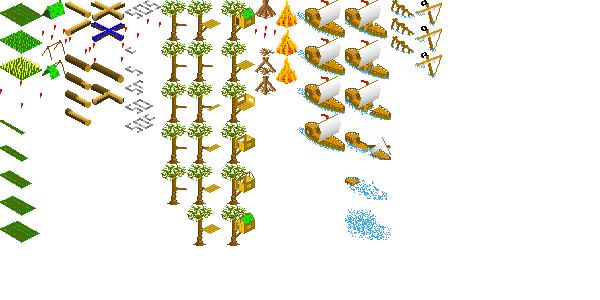
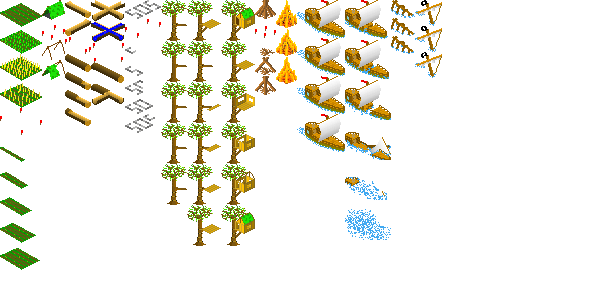
Fix unlimited food exploit

diff --git a/src/action/actions/consuming.js b/src/action/actions/consuming.js
@@ -19,23 +19,28 @@ const goToPlace = (tile) => {
   }
 };
 
+const removeFoodFromObject = (object) => {
+  if (object.sprite === spriteTypes.BUSH && object.frame === 2) {
+    object.frame++;
+  } else if (object.sprite === spriteTypes.FIELD && object.frame === 2) {
+    object.frame++;
+  } else {
+    object.frame = 0;
+  }
+};
+
 const consume = (tile) => {
   if (isEatable(tile.object)) {
     startGuyAnimation(spriteTypes.GUY_EATING);
     sounds.CRACKLING.instance.play();
+    removeFoodFromObject(tile.object);
     changeWaterAndFood(0, 15);
     spendMinutes(2);
-  } else {
+  } else if (isDrinkable(tile.object)) {
     startGuyAnimation(spriteTypes.GUY_DRINKING);
     sounds.DRINKING.instance.play();
     changeWaterAndFood(30, 0);
     spendMinutes(3);
-  }
-};
-
-const resetEatableObject = (tile) => {
-  if (isEatable(tile.object)) {
-    tile.object.frame = 0;
   }
 };
 
@@ -50,7 +55,6 @@ const consuming = {
     goToPlace,
     consume,
     consume,
-    resetEatableObject,
     goToCenterOfTile
   ]
 };

diff --git a/src/action/spendMinutes.js b/src/action/spendMinutes.js
@@ -1,5 +1,4 @@
 import spriteTypes from '../images/spriteTypes.js';
-import sprites from '../images/sprites.js';
 import isOnSea from '../guy/isOnSea.js';
 import changeHealth from '../guy/changeHealth.js';
 import state from '../state/state.js';
@@ -19,10 +18,14 @@ const removeObjectsWithLifetime = (minutes, tile) => {
 const growFood = (minutes, tile) => {
   if (tile.object?.sprite === spriteTypes.FIELD && !tile.construction) {
     tile.object.frame += minutes * 0.005;
-    tile.object.frame = Math.min(tile.object.frame, 2);
+    if (tile.object.frame > 2) {
+      tile.object.frame = Math.floor(tile.object.frame);
+    }
   } else if (tile.object?.sprite === spriteTypes.BUSH) {
     tile.object.frame += minutes * 0.0005;
-    tile.object.frame = Math.min(tile.object.frame, sprites[tile.object.sprite].frameCount - 1);
+    if (tile.object.frame > 2) {
+      tile.object.frame = Math.floor(tile.object.frame);
+    }
   }
 };
 

diff --git a/src/terrain/objects/isEatable.js b/src/terrain/objects/isEatable.js
@@ -1,11 +1,10 @@
 import spriteTypes from '../../images/spriteTypes.js';
-import sprites from '../../images/sprites.js';
 
 const isEatable = (object) => {
-  if (object?.sprite === spriteTypes.BUSH && object.frame === sprites[object.sprite].frameCount - 1) {
+  if (object?.sprite === spriteTypes.BUSH && [2, 3].includes(object.frame)) {
     return true;
   }
-  if (object?.sprite === spriteTypes.FIELD && object.frame === 2) {
+  if (object?.sprite === spriteTypes.FIELD && [2, 3].includes(object.frame)) {
     return true;
   }
   return false;

diff --git a/src/images/sprites.js b/src/images/sprites.js
@@ -350,7 +350,7 @@ const sprites = {
   },
   [spriteTypes.BUSH]: {
     ...treeDefault,
-    frameCount: 3,
+    frameCount: 4,
     speed: 0,
     x: 81,
     y: 0,
@@ -433,7 +433,7 @@ const sprites = {
     height: 27,
     offsetX: -21,
     offsetY: -16,
-    frameCount: 9,
+    frameCount: 10,
     speed: 0
   },
   [spriteTypes.TENT]: {

diff --git a/src/construction/constructions.js b/src/construction/constructions.js
@@ -5,7 +5,7 @@ import constructionTypes from './constructionTypes.js';
 const constructions = {
   [constructionTypes.FIELD]: {
     sprite: spriteTypes.FIELD,
-    frames: [3, 4, 5, 6, 7, 8, 0],
+    frames: [4, 5, 6, 7, 8, 9, 0],
     items: {},
     hintTextId: 'HINT_FIELD'
   },
